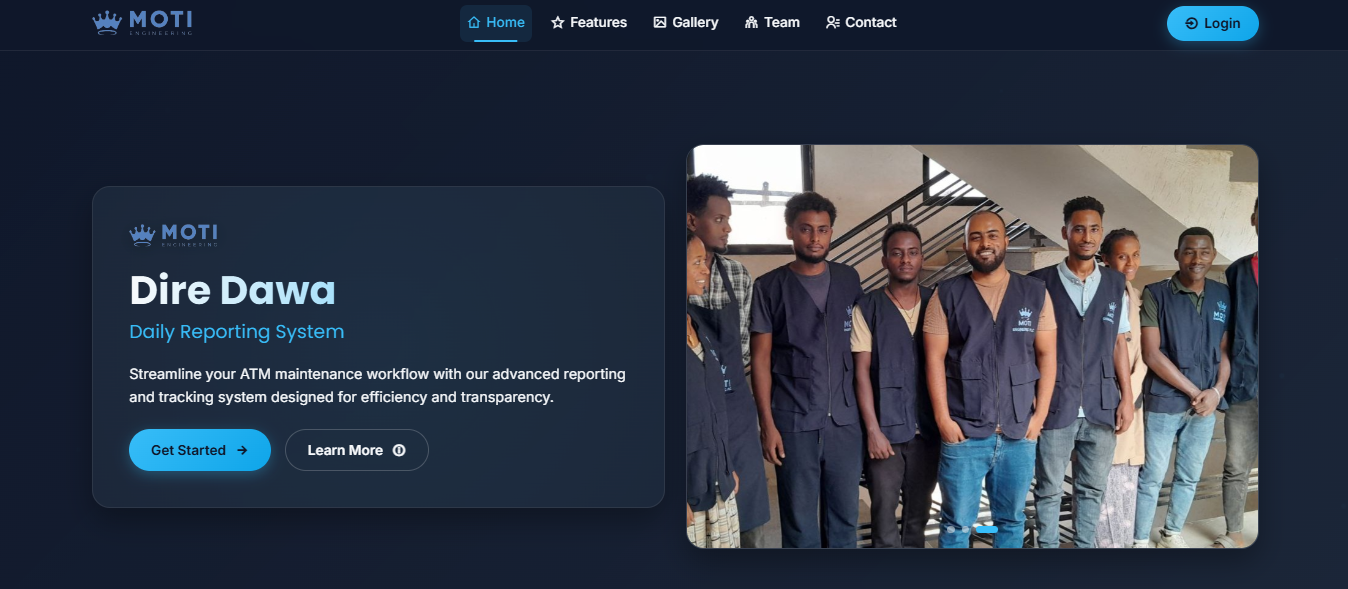
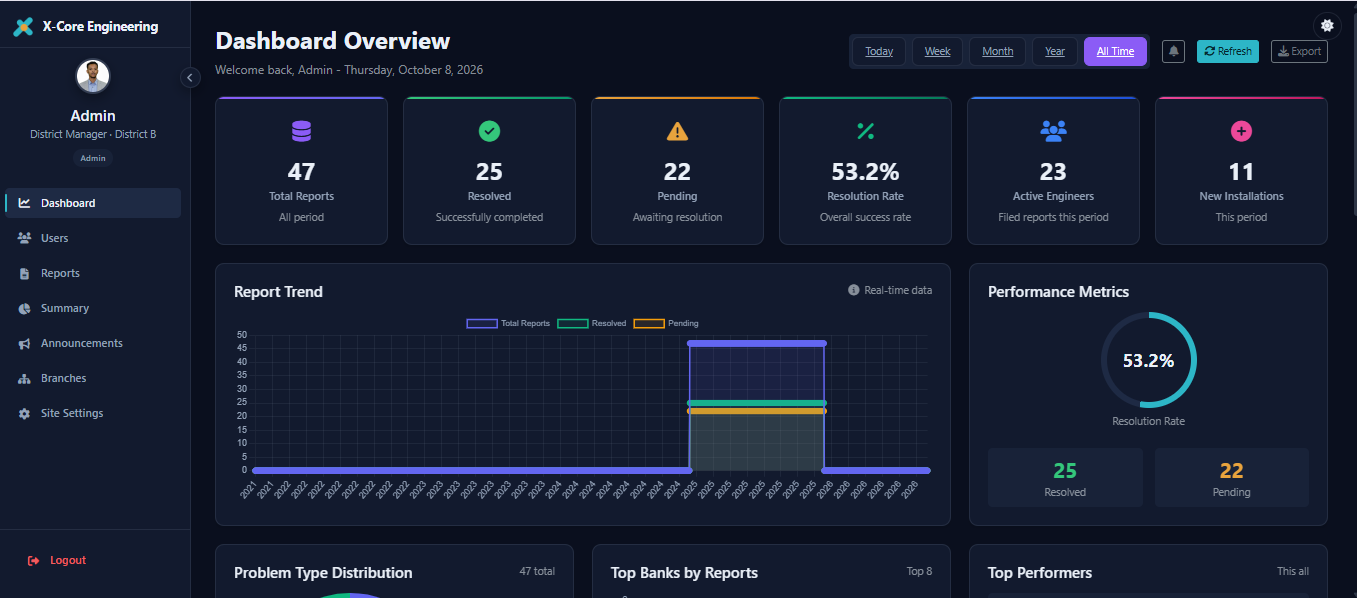
DRS
DRS

diff --git a/index.html b/index.html
@@ -1031,12 +1031,12 @@ main{display:block;}
 
           <div class="project-card glass accent-top" data-aos="fade-up" data-aos-delay="150">
             <span class="project-index">02</span>
-            <div class="project-image"><img src="assets/images/DRS.png" alt="ATM Daily Reporting System" loading="lazy"><div class="project-overlay"><div class="project-tags"><span class="project-tag">Automation</span><span class="project-tag">Reporting</span></div></div></div>
+            <div class="project-image"><img src="assets/images/DRS.png" alt="System" loading="lazy"><div class="project-overlay"><div class="project-tags"><span class="project-tag">Automation</span><span class="project-tag">Reporting</span></div></div></div>
             <div class="project-content">
-              <h3 class="project-title">ATM Daily Reporting System</h3>
-              <p class="project-description">Automated portal for generating and managing daily ATM transaction reports with advanced analytics capabilities.</p>
+              <h3 class="project-title">Advanced Reporting System</h3>
+              <p class="project-description">Empower your organization with a powerful platform for daily reporting, operations management, performance tracking, workflow coordination, and informed decision-making - built to adapt to organizations of every type and industry.</p>
               <div class="project-tech"><span>PHP</span><span>MySQL</span><span>Chart.js</span></div>
-              <a href="https://fanareports.yeneflow.com" class="project-link" target="_blank" rel="noopener"><span>View Project</span><i class="bx bx-link-external"></i></a>
+              <a href="https://xengine.yeneflow.com/" class="project-link" target="_blank" rel="noopener"><span>View Project</span><i class="bx bx-link-external"></i></a>
             </div>
           </div>
 
